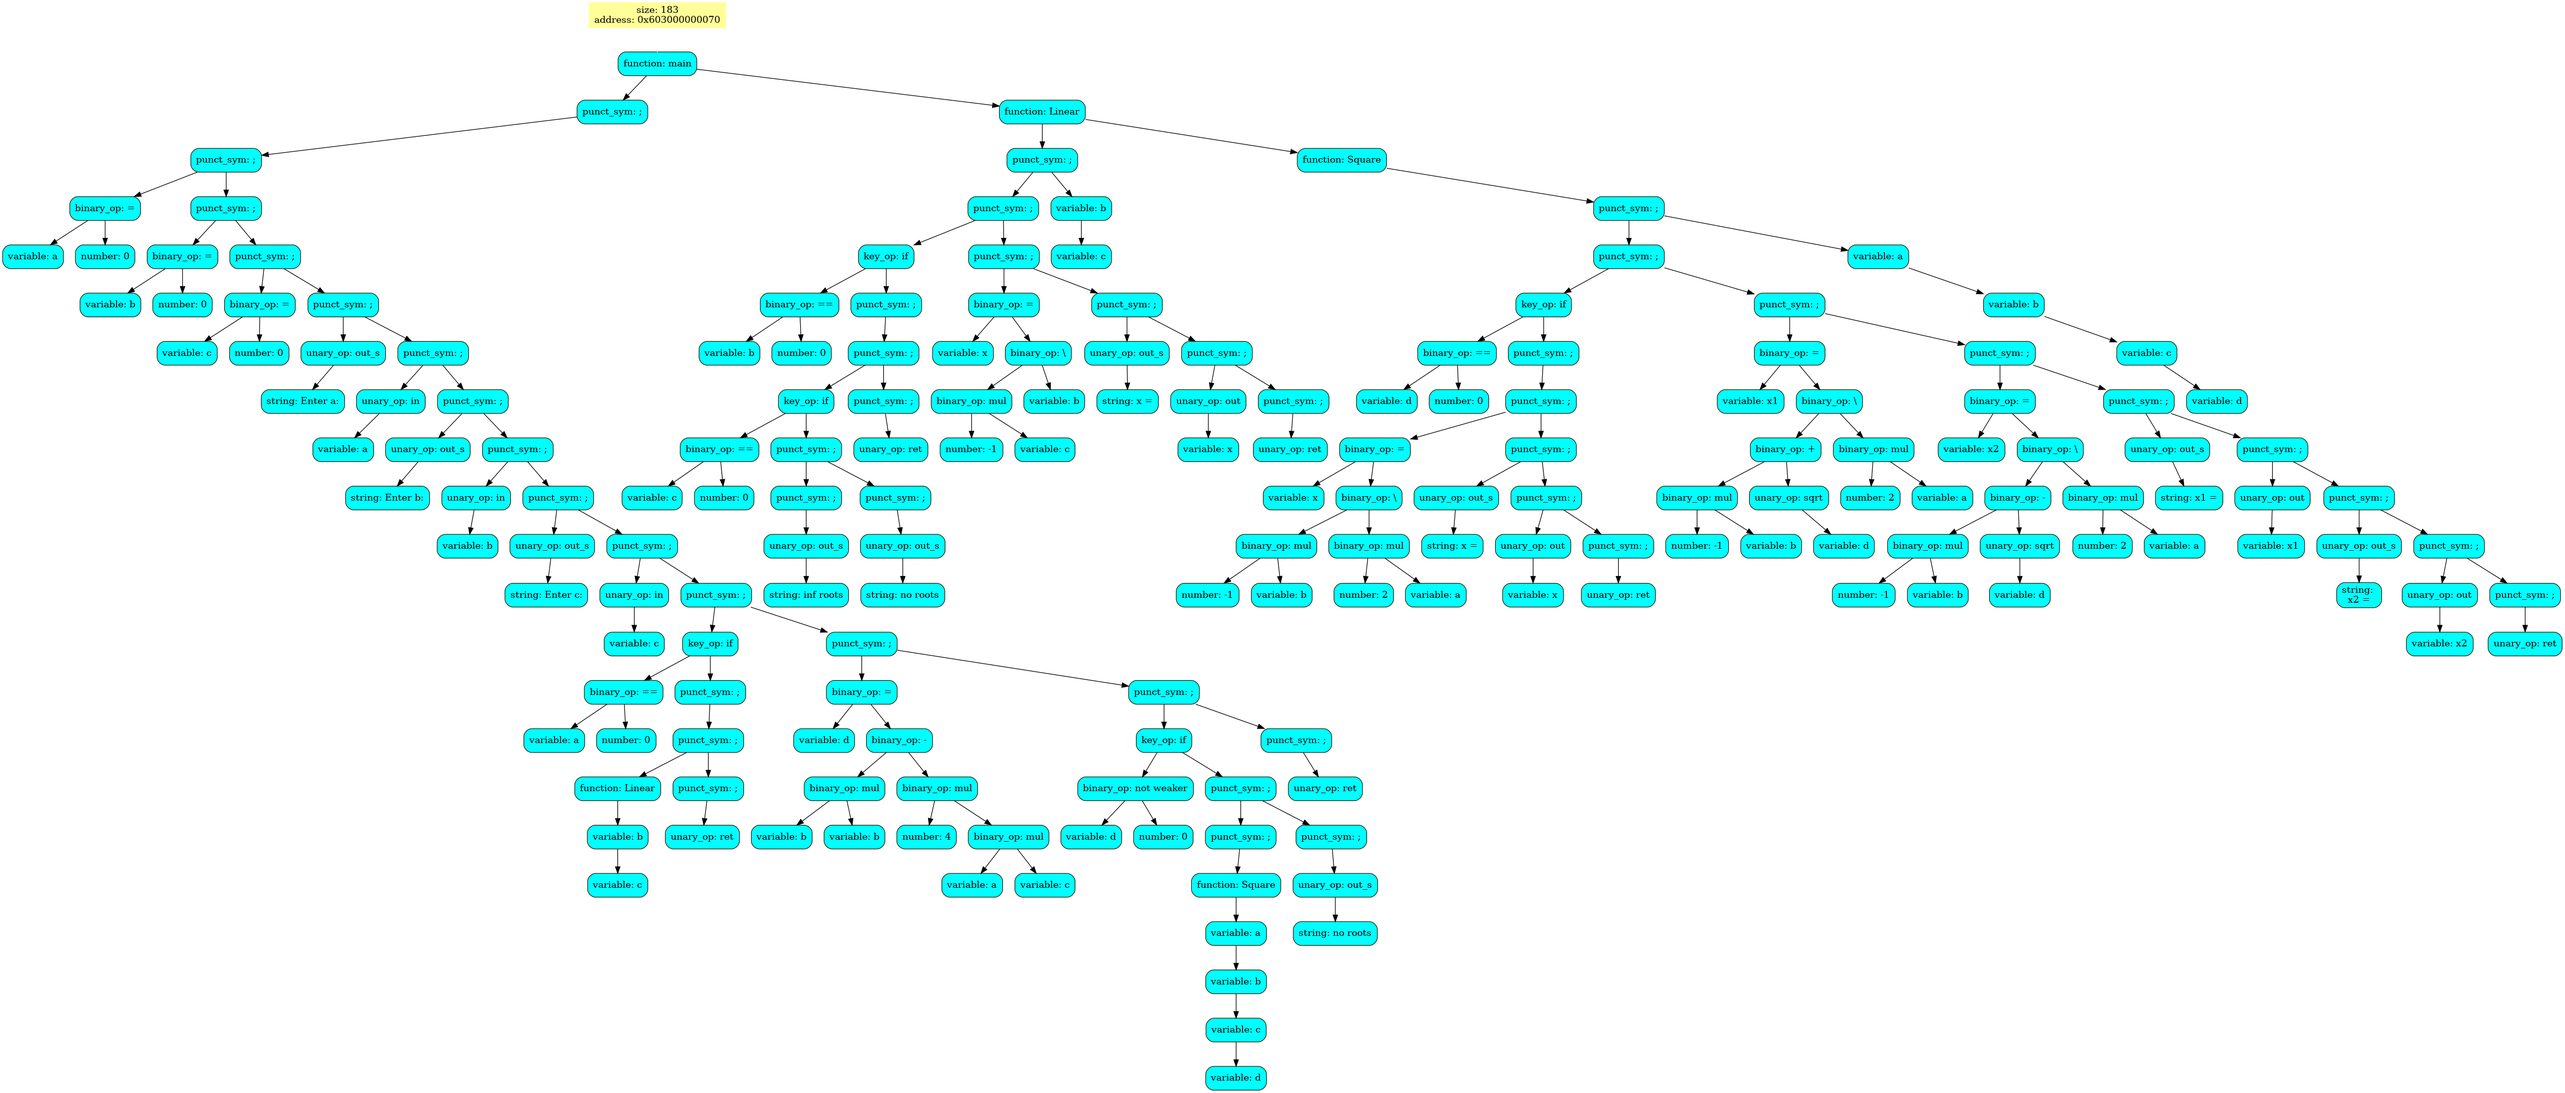
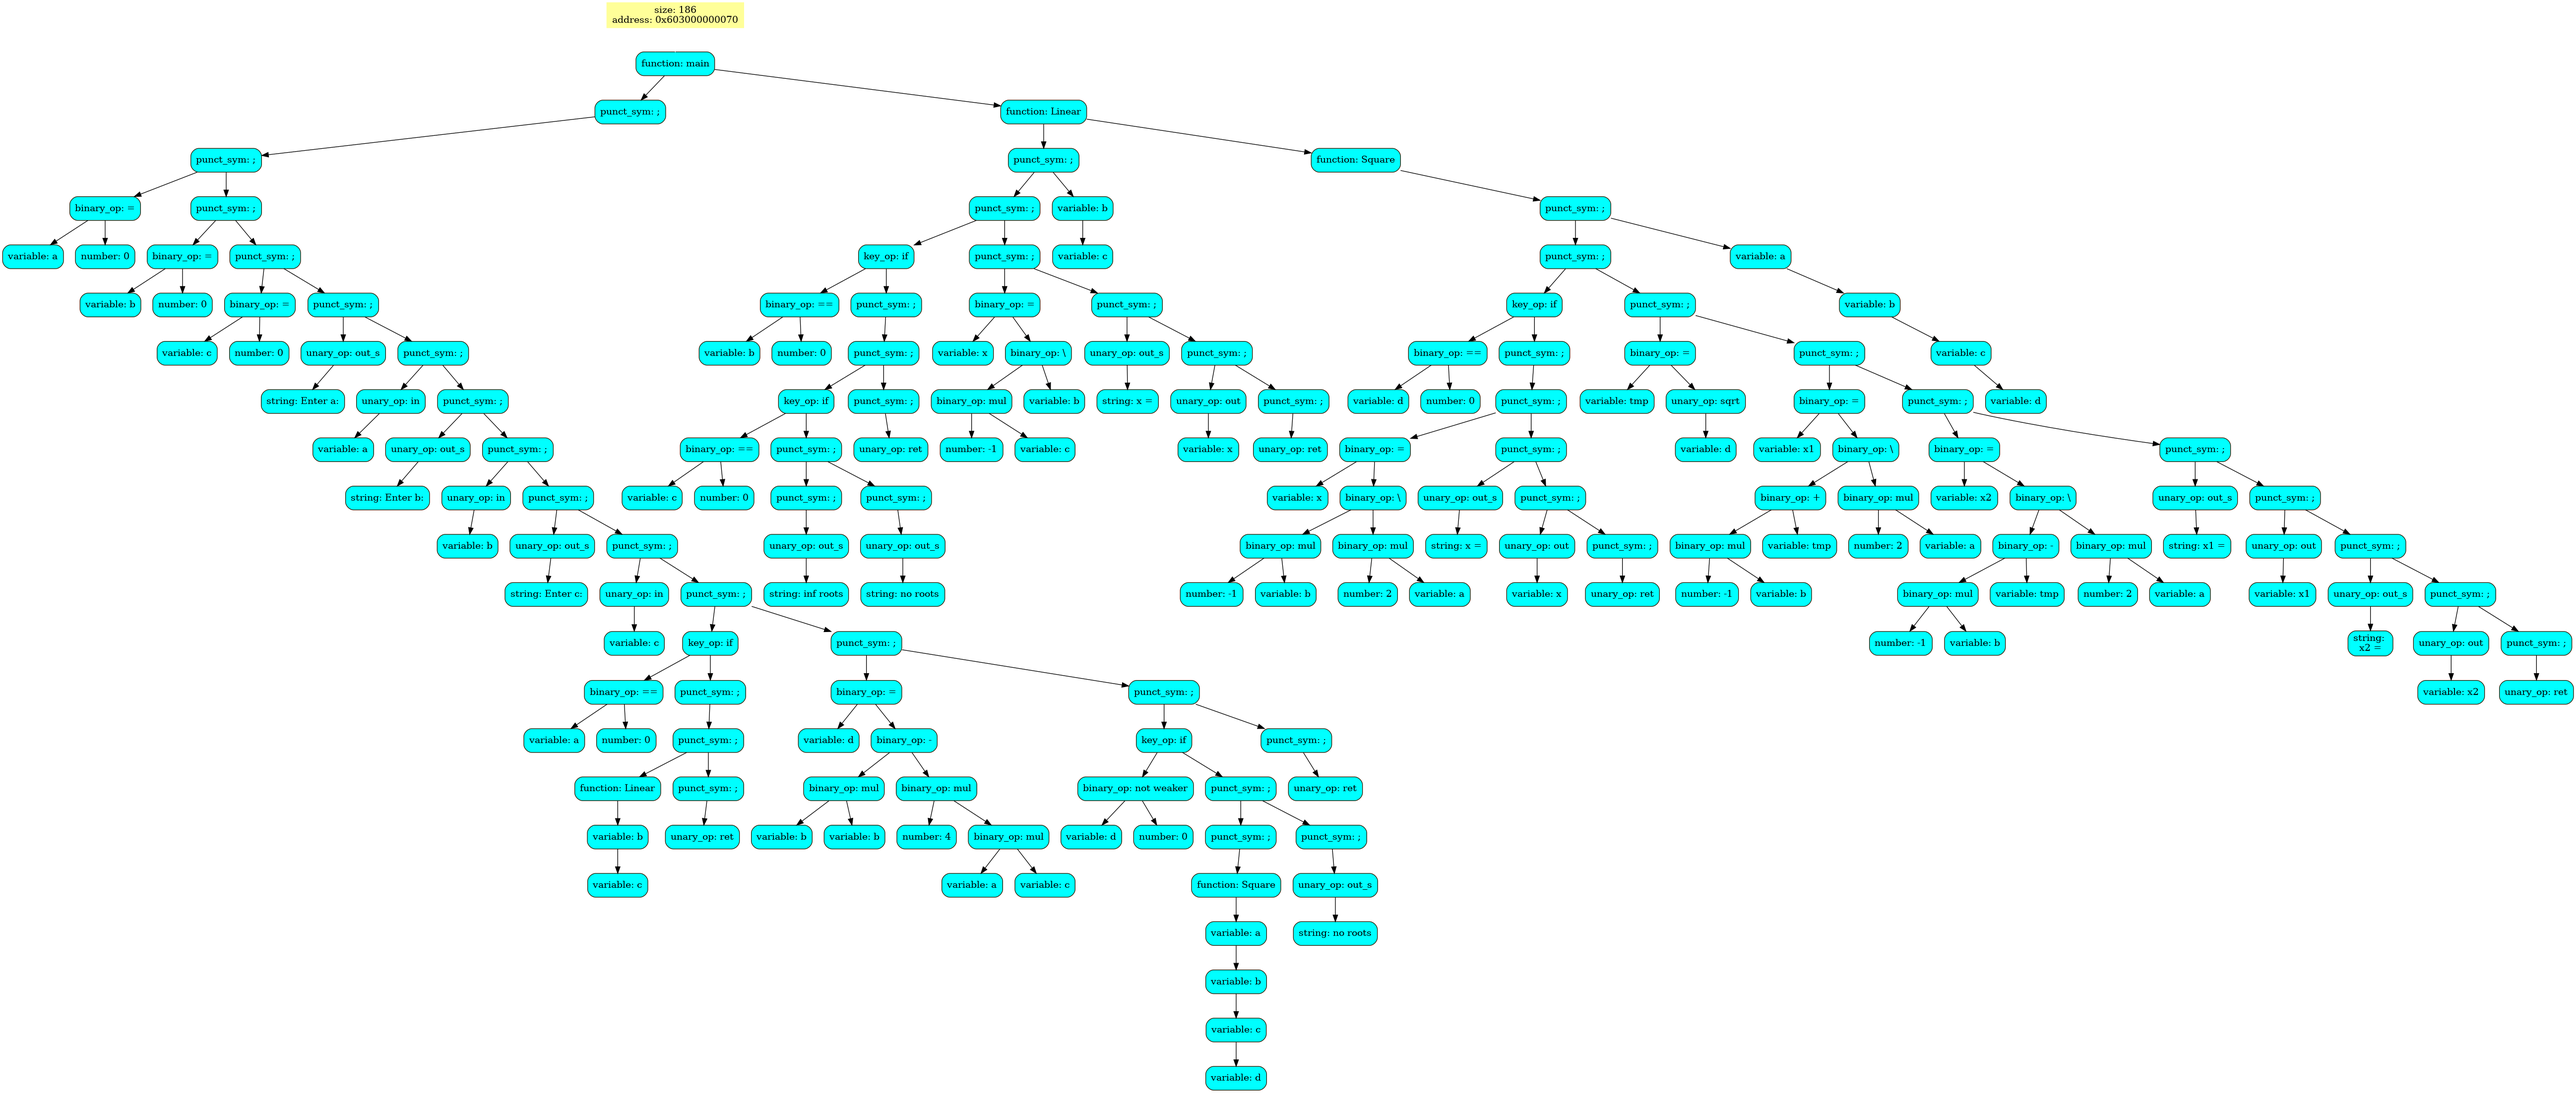
square solver ready

diff --git a/backend_intel/gen_asm_x86.cpp b/backend_intel/gen_asm_x86.cpp
@@ -107,6 +107,7 @@ int genNewLine(TreeNode *node, CodeGenData *data) {
     else if (isType(node->left, FUNCTION)) {
         if (genCall(node->left->right, data) != SUCCESS)
             return ERROR;
+        fprintf(data->fn, "\t\tcall %s\n", getStrPtr(data->vars.names_table, node->left->value.func_index));
     }
 
     else if (isUnOp(node->left, RET))
@@ -227,20 +228,27 @@ int genWhile(TreeNode *node, CodeGenData *data) {
     size_t while_index = data->indexes.cur_while++;
     fprintf(data->fn, ":while_%lu\n", while_index);
 
-    if (genExpression(node->left->right, data, {}) != SUCCESS) return ERROR;
-    if (genExpression(node->left->left, data, {}) != SUCCESS) return ERROR;
+    ValueSrc left = {};
+    ValueSrc right = {};
+    if (genExpression(node->left->right, data, &left) != SUCCESS) return ERROR;
+    if (genExpression(node->left->left, data, &right) != SUCCESS) return ERROR;
 
+    fprintf(data->fn, "\t\tcmp ");
+    printPlace(data, right);
+    fprintf(data->fn, ", ");
+    printPlace(data, left);
+    fprintf(data->fn, "\n");
     if (genLogicalJump(node->left, data) != SUCCESS) return ERROR;
-    fprintf(data->fn, "begin_while_%lu\n", while_index);
+    fprintf(data->fn, ".begin_while_%lu\n", while_index);
 
-    fprintf(data->fn, "\t\tjmp end_while_%lu\n", while_index);
+    fprintf(data->fn, "\t\tjmp .end_while_%lu\n", while_index);
 
-    fprintf(data->fn, ":begin_while_%lu\n", while_index);
+    fprintf(data->fn, ".begin_while_%lu:\n", while_index);
     if (genNewLine(node->right->left, data) != SUCCESS) return ERROR;
 
-    fprintf(data->fn, "\t\tjmp while_%lu\n", while_index);
+    fprintf(data->fn, "\t\tjmp .while_%lu\n", while_index);
 
-    fprintf(data->fn, ":end_while_%lu\n", while_index);
+    fprintf(data->fn, ".end_while_%lu:\n", while_index);
 
     return SUCCESS;
 }
@@ -298,6 +306,11 @@ int genExpression(TreeNode *node, CodeGenData *data, ValueSrc *src) {
         *src = {.type = TypeReg, .reg = RAX};
         return SUCCESS;
     }
+    else if (isType(node, UNARY_OP)) {
+        if (genUnaryOp(node, data, src) != SUCCESS)
+            return ERROR;
+        return SUCCESS;
+    }
 
     printf(RED "asm gen error: " END_OF_COLOR "invalid value type for expression\n");
 
@@ -339,16 +352,16 @@ int genLogicalJump(TreeNode *node, CodeGenData *data) {
         fprintf(data->fn, "\t\tjne ");
 
     else if (node->value.bin_op == ABOVE)
-        fprintf(data->fn, "\t\tja ");
+        fprintf(data->fn, "\t\tjg ");
 
     else if (node->value.bin_op == BELOW)
-        fprintf(data->fn, "\t\tjb ");
+        fprintf(data->fn, "\t\tjl ");
 
     else if (node->value.bin_op == AB_EQ)
-        fprintf(data->fn, "\t\tjae ");
+        fprintf(data->fn, "\t\tjge ");
 
     else if (node->value.bin_op == BEl_EQ)
-        fprintf(data->fn, "\t\tjbe ");
+        fprintf(data->fn, "\t\tjle ");
 
     else {
         printf(RED "asm gen error: " END_OF_COLOR "invalid logical operation\n");
@@ -443,4 +456,26 @@ void printStr(CodeGenData *data, char *str) {
         else fprintf(data->fn, "%c", *str++);
     }
     fprintf(data->fn, "\", 0x0\n");
+}
+
+int genUnaryOp(TreeNode *node, CodeGenData *data, ValueSrc *src) {
+
+    CODE_GEN_ASSERT
+
+    if (node->value.type != UNARY_OP) {
+        printf(RED "asm gen error: " END_OF_COLOR "unary operation expected\n");
+        return ERROR;
+    }
+
+    if (node->value.un_op == SQRT) {
+        if (genSqrt(node, data, src) != SUCCESS)
+            return ERROR;
+    }
+
+    else {
+        printf(RED "asm gen error: " END_OF_COLOR "invalid unary operation\n");
+        return ERROR;
+    }
+
+    return SUCCESS;
 }

diff --git a/backend_intel/gen_operations.cpp b/backend_intel/gen_operations.cpp
@@ -4,6 +4,33 @@
 #include "../../MyLibraries/headers/systemdata.h"
 #include <stdlib.h>
 
+int genSqrt(TreeNode *node, CodeGenData *data, ValueSrc *src) {
+
+    CODE_GEN_ASSERT
+
+    ValueSrc right = {};
+    if (genExpression(node->right, data, &right) != SUCCESS)
+        return ERROR;
+
+    if (right.type != TypeStack) {
+        fprintf(data->fn, "\t\tmov [rbp - %lu], ", (data->indexes.cur_stack_ind + 1) * VALUE_SIZE);
+        printPlace(data, right);
+        fprintf(data->fn, "\n");
+        right.type = TypeStack;
+        right.index = data->indexes.cur_stack_ind;
+    }
+
+    fprintf(data->fn, "\t\tfild qword [rbp - %lu]\n", (right.index + 1) *  VALUE_SIZE);
+    fprintf(data->fn, "\t\tfsqrt\t\t;sqrt\n");
+    fprintf(data->fn, "\t\tfisttp qword [rbp - %lu]\n", (right.index + 1) *  VALUE_SIZE);
+    if (moveToRegister(data, &right) != SUCCESS)
+        return ERROR;
+
+    *src = right;
+
+    return SUCCESS;
+}
+
 int genDiv(TreeNode *node, CodeGenData *data, ValueSrc *src) {
 
     CODE_GEN_ASSERT
@@ -28,7 +55,7 @@ int genDiv(TreeNode *node, CodeGenData *data, ValueSrc *src) {
 
     fprintf(data->fn, "\t\tidiv qword ");
     printPlace(data, right);
-    fprintf(data->fn, "\n");
+    fprintf(data->fn, "\t\t;div\n");
 
     src->type = TypeReg;
     src->reg = RAX;
@@ -57,7 +84,7 @@ int genMul(TreeNode *node, CodeGenData *data, ValueSrc *src) {
     printPlace(data, left);
     fprintf(data->fn, ", ");
     printPlace(data, right);
-    fprintf(data->fn, "\n");
+    fprintf(data->fn, "\t\t;mul\n");
 
     *src = left;
 
@@ -92,7 +119,7 @@ int genAdd(TreeNode *node, CodeGenData *data, ValueSrc *src) {
     printPlace(data, left);
     fprintf(data->fn, ", ");
     printPlace(data, right);
-    fprintf(data->fn, "\n");
+    fprintf(data->fn, "\t\t;add\n");
 
     *src = left;
 
@@ -120,7 +147,7 @@ int genSub(TreeNode *node, CodeGenData *data, ValueSrc *src) {
     printPlace(data, left);
     fprintf(data->fn, ", ");
     printPlace(data, right);
-    fprintf(data->fn, "\n");
+    fprintf(data->fn, "\t\t;sub\n");
 
     *src = left;
 

diff --git a/backend_intel/gen_asm_x86.h b/backend_intel/gen_asm_x86.h
@@ -25,7 +25,7 @@ int genWhile(TreeNode *node, CodeGenData *data);
 int genAssign(TreeNode *node, CodeGenData *data);
 int genExpression(TreeNode *node, CodeGenData *data, ValueSrc *src);
 int genLogicalJump(TreeNode *node, CodeGenData *data);
-int genUnaryOp(TreeNode *node, CodeGenData *data);
+int genUnaryOp(TreeNode *node, CodeGenData *data, ValueSrc *src);
 int genBinaryOp(TreeNode *node, CodeGenData *data, ValueSrc *src);
 int genInput(TreeNode *node, CodeGenData *data);
 int genCall(TreeNode *node, CodeGenData *data);

diff --git a/data/lang_syntax.cpp b/data/lang_syntax.cpp
@@ -22,7 +22,7 @@ const char *KEY_WORDS[] = {
     "did not turn into",                    // "!="
     "turn into",                            // =
     "stone",                                // if
-    "fell into a dead sleep while",         // while
+    "fell into a dead sleep until",         // while
     "fairytale",                            // function
     "once upon the time",                   // main
     "go left",                              //

diff --git a/backend_intel/gen_operations.h b/backend_intel/gen_operations.h
@@ -17,4 +17,6 @@ int genMul(TreeNode *node, CodeGenData *data, ValueSrc *src);
 
 int genDiv(TreeNode *node, CodeGenData *data, ValueSrc *src);
 
+int genSqrt(TreeNode *node, CodeGenData *data, ValueSrc *src);
+
 #endif
